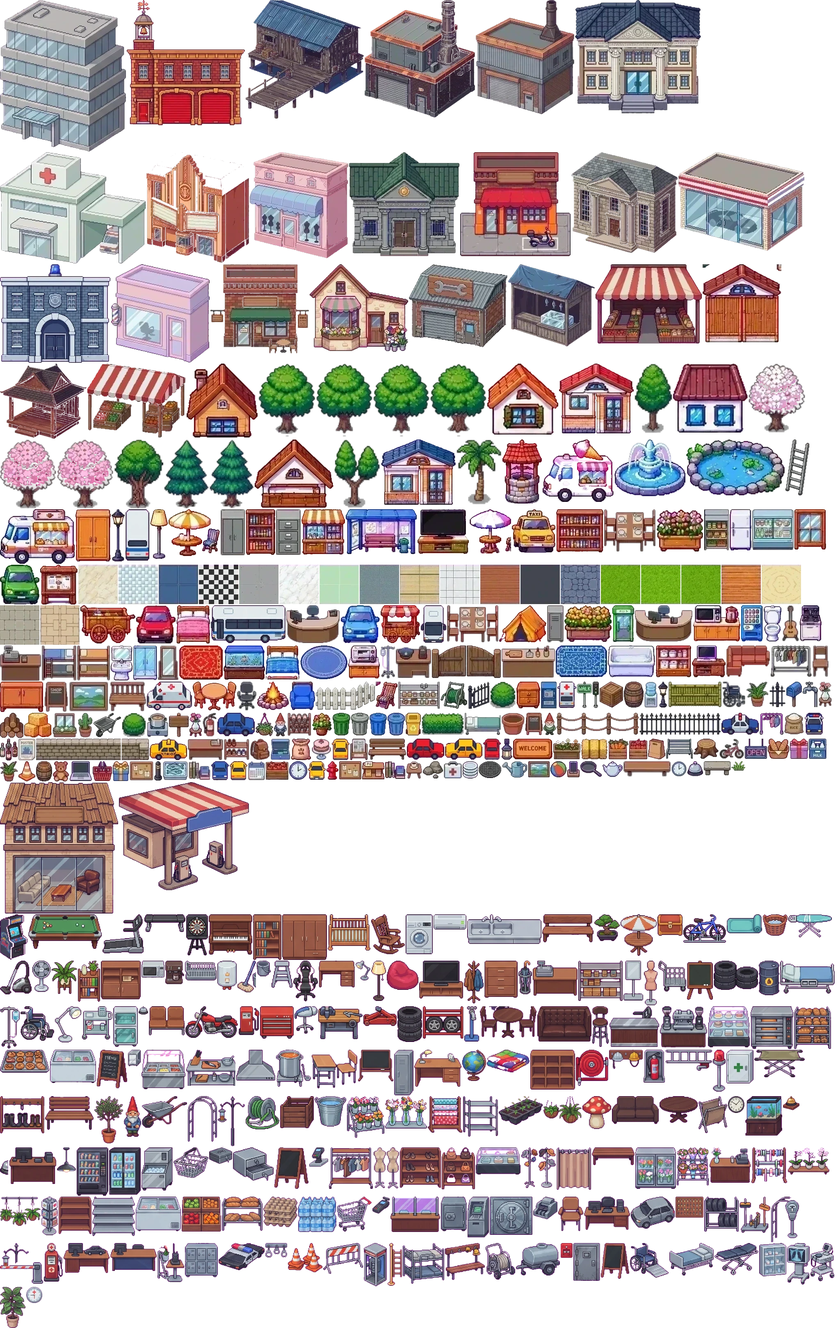
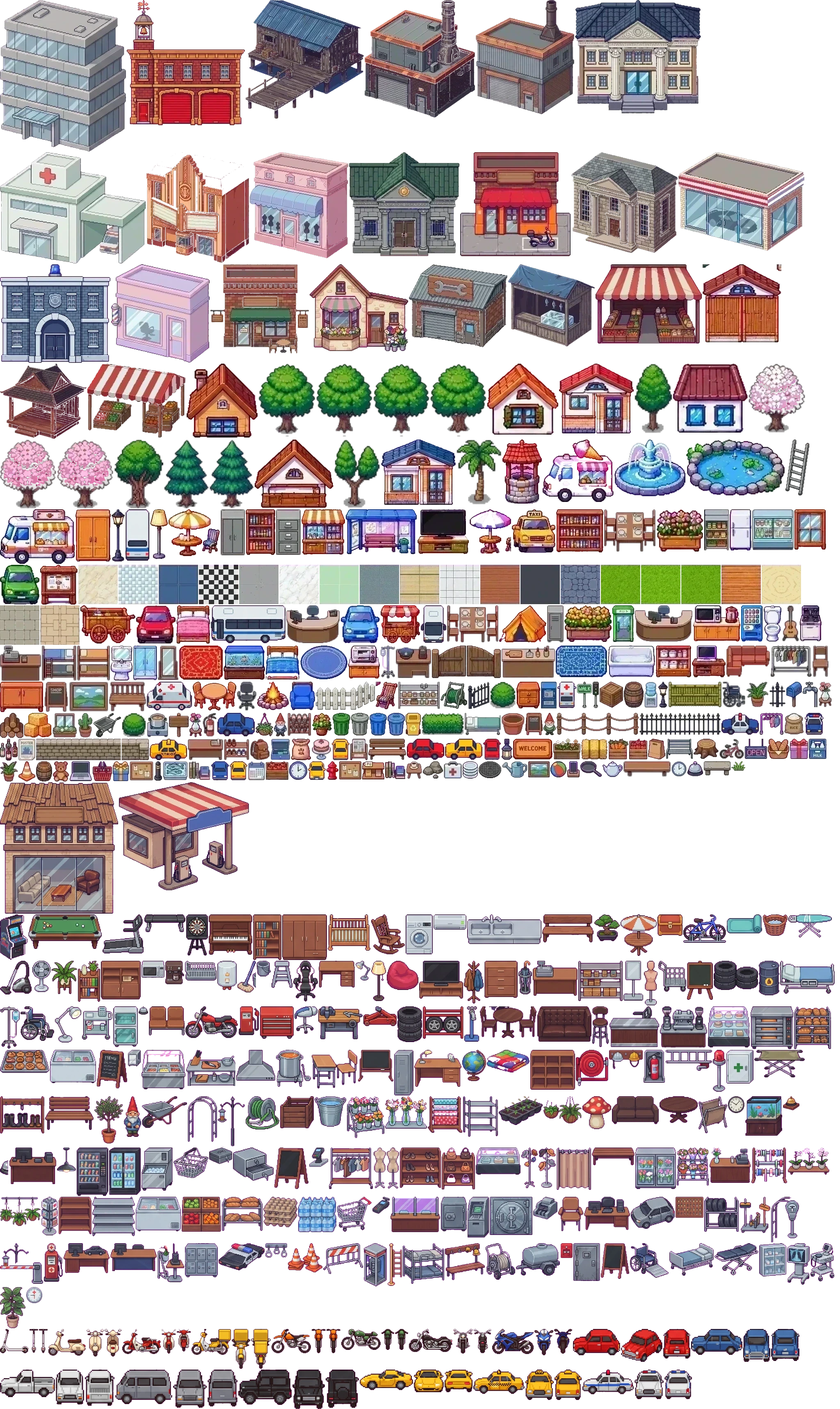
Vehicles: car showroom reopened with 8 motorbikes and 8 cars cut from the new sheets (front/back/side), ride outdoors with a button (faster, no running energy), sell back at 60%; police car for police only
Claude-Session: https://claude.ai/code/session_011vTRLcvJmqJKhBboYRSi88

diff --git a/public/game.js b/public/game.js
@@ -89,6 +89,22 @@ function drawAura(px, py, H, t, front) {
   }
   ctx.restore();
 }
+// ---- vehicles: atlas sprites w_<key>_s (side, faces left) / _f (front) / _b (back)
+const vehSpr = (key, view) => atlas?.sprites?.[`w_${key}_${view === 'side' ? 's' : view === 'front' ? 'f' : 'b'}`];
+const vehH = (key, view) => { const s = vehSpr(key, view); return s ? s[3] / atlas.tile * TS : TS; };
+function drawVeh(key, view, faceLeft, px, py) {
+  const s = vehSpr(key, view); if (!s || !atlasImg) return;
+  const w = s[2] / atlas.tile * TS, h = s[3] / atlas.tile * TS;
+  ctx.save(); ctx.translate(px, py + TS * .06); if (view === 'side' && !faceLeft) ctx.scale(-1, 1);
+  ctx.drawImage(atlasImg, s[0], s[1], s[2], s[3], Math.round(-w / 2), Math.round(-h), Math.round(w), Math.round(h)); ctx.restore();
+}
+function drawRide(p, v, px, py, k, view, dir) {
+  const faceLeft = dir === 'left';
+  if (v.kind === 'car') return drawVeh(p.veh, view, faceLeft, px, py);          // in a car you only see the car
+  const lift = p.veh === 'escoot' ? TS * .12 : TS * .32;                          // sit on the seat / stand on the deck
+  drawCharTo(ctx, p, px + (view === 'side' ? (faceLeft ? TS * .12 : -TS * .12) : 0), py - lift, k, view, 0, faceLeft);
+  drawVeh(p.veh, view, faceLeft, px, py);                                        // the bike in front hides the legs
+}
 const SEAT_LEGS = .45;
 function drawCharTo(g, p, fx, fy, k, view, step, faceLeft, seated) {
   // outfits (job clothes, the thief outfit, reward outfits) are whole sheets; only the hair colour is applied on top
@@ -171,7 +187,7 @@ function handle(m) {
         ids.add(p.id);
         let s = P.get(p.id);
         if (!s) { s = { x: p.x, y: p.y, rx: p.x, ry: p.y, ox: 0, oy: 0, f: p.f, bubble: '', bt: 0 }; P.set(p.id, s); }
-        Object.assign(s, { id: p.id, name: p.name, av: p.av, c: p.c, lv: p.lv, dz: p.dz || [], pose: p.pose, title: p.title, tr: p.tr, g: p.g, lk: p.lk, npc: p.npc, adm: p.adm, w: p.w, sad: p.sad, of: p.of || '', th: p.th, afk: p.afk, wk: p.wk, desc: p.desc, tf: p.tf });
+        Object.assign(s, { id: p.id, name: p.name, av: p.av, c: p.c, lv: p.lv, dz: p.dz || [], pose: p.pose, title: p.title, tr: p.tr, g: p.g, lk: p.lk, npc: p.npc, adm: p.adm, w: p.w, sad: p.sad, of: p.of || '', th: p.th, afk: p.afk, wk: p.wk, desc: p.desc, tf: p.tf, veh: p.veh || '' });
         if (p.id === myId && !s.init) { s.init = true; s.x = s.rx = p.x; s.y = s.ry = p.y; }
       }
       for (const id of [...P.keys()]) if (!ids.has(id)) P.delete(id);
@@ -737,7 +753,7 @@ let last = performance.now(), sendT = 0, lastSent = '', holdAfterTp = false, meM
 let homeBtnT = 0;
 function frame(t) {
   requestAnimationFrame(frame);
-  if (G && me && t - homeBtnT > 400) { homeBtnT = t; const m0 = P.get(myId), r0 = m0 && areaOf(m0.x, m0.y); $('#homeBtn').classList.toggle('hidden', !(r0 && r0.rk === 'house' && r0.house === me.house) || !!placing); if (placing && !(r0 && r0.rk === 'house')) endPlace(); }
+  if (G && me && t - homeBtnT > 400) { homeBtnT = t; const m0 = P.get(myId), r0 = m0 && areaOf(m0.x, m0.y); { const vs = (me.vehicles || []).filter(k => G.shop.vehicles[k]), rb = $('#rideBtn'), v = G.shop.vehicles[me.ride]; rb.classList.toggle('hidden', !vs.length || !!(r0 && r0.kind === 'room')); rb.classList.toggle('on', !!v); const lbl = v ? `<span>🚶</span><small>ลงรถ</small>` : `<span>${G.shop.vehicles[vs[0]]?.icon || '🛵'}</span><small>ขี่รถ</small>`; if (rb.innerHTML !== lbl) rb.innerHTML = lbl; } $('#homeBtn').classList.toggle('hidden', !(r0 && r0.rk === 'house' && r0.house === me.house) || !!placing); if (placing && !(r0 && r0.rk === 'house')) endPlace(); }
   const dt = Math.min(0.05, (t - last) / 1000); last = t;
   if (!G || !me) { ctx.setTransform(1, 0, 0, 1, 0, 0); ctx.fillStyle = '#14181d'; ctx.fillRect(0, 0, cv.width, cv.height); return; }
   const m = P.get(myId);
@@ -755,7 +771,7 @@ function frame(t) {
     if (l > 0.01) {
       if (l > 1) { dx /= l; dy /= l; }
       if (running && (!canRun() || me.run === false && performance.now() - runSetT > 1500)) setRun(false);
-      const sp = G.speed * (me.speed || 1) * (running ? G.run.mul : 1) * dt;
+      const rv = me.ride && !roomOf(m.x, m.y) && !me.pose ? G.shop.vehicles[me.ride] : null, sp = G.speed * (me.speedBase || me.speed || 1) * (rv ? rv.speed : running ? G.run.mul : 1) * dt;
       // round to what we send so client and server always agree
       const r2 = v => Math.round(v * 100) / 100;
       const nx = r2(m.x + dx * sp); if (!blockedAt(nx, m.y)) m.x = nx;
@@ -964,7 +980,9 @@ function drawPlayer(p, X, Y, t) {
   const view = dir === 'down' ? 'front' : dir === 'up' ? 'back' : 'side';
   const k = TS * 1.55 / CH_ATLAS.h, H = CH_ATLAS.h * k;
   let px = px0, py = py0;
-  ctx.fillStyle = 'rgba(0,0,0,.25)'; ctx.beginPath(); ctx.ellipse(px, py, TS * (lying ? .55 : .32), TS * .11, 0, 0, 7); ctx.fill();
+  const RV = p.veh && !lying && !sitting && G.shop?.vehicles?.[p.veh] && !roomOf(p.x, p.y) ? G.shop.vehicles[p.veh] : null;
+  ctx.fillStyle = 'rgba(0,0,0,.25)'; ctx.beginPath(); ctx.ellipse(px, py, TS * (lying ? .55 : RV ? (RV.kind === 'car' ? (view === 'side' ? 1.2 : .75) : view === 'side' ? .8 : .4) : .32), TS * .11, 0, 0, 7); ctx.fill();
+  if (RV) { drawRide(p, RV, px, py, k, view, dir); nameAndBubble(p, px, py - (RV.kind === 'car' ? vehH(p.veh, view) + TS * .15 : H * .97 + TS * (p.veh === 'escoot' ? .12 : .32)), p.id === myId, t); return; }
   const aura = p.of === 'admin' && !lying, now0 = performance.now();
   if (aura) drawAura(px, py, H, now0, false);
   ctx.save();
@@ -1571,7 +1589,20 @@ function renderPanel(p) {
       }).join('');
       return `<h2>🛠 ร้านอุปกรณ์</h2><div class="sub">${hoursTxt('toolshop')} · อัปเกรดอุปกรณ์ให้หาเงินได้มากขึ้น · อัปได้ 3 ระดับ</div><div class="list">${rows}</div>`;
     }
-    case 'dealer': return `<h2>🚧 โชว์รูมรถ</h2><div class="sub">ปิดปรับปรุงชั่วคราว · สอบ/ต่ออายุใบขับขี่ได้ที่มหาวิทยาลัย</div>`;
+    case 'dealer': {
+      const tab = p.vtab === 'car' ? 'car' : 'moto', lic = (me.licenses || []).includes('driving'), mine = me.vehicles || [];
+      const cards = Object.entries(G.shop.vehicles).filter(([, v]) => v.kind === tab && (!v.job || v.job === me.career)).sort((a, b) => a[1].price - b[1].price).map(([key, v]) => {
+        const has = mine.includes(key), on = me.ride === key, need = v.license && !lic;
+        const btn = has ? `<div class="col2">${B(on ? '✓ ใช้อยู่' : `${v.icon} ขี่`, { t: 'ride', v: key, on: 1 }, on ? 'primary' : 'good', on)}${B(`ขาย ${money(Math.round(v.price * .6))}`, { t: 'act', st, a: 'sell', v: key }, 'warn')}</div>` : B(need ? '🪪 ต้องมีใบขับขี่' : money(v.price), { t: 'act', st, a: 'buy', v: key }, need ? '' : 'good', need || me.money < v.price);
+        return `<div class="look fcard vcard ${has ? 'on' : ''}"><canvas data-spr="w_${key}_s" width="150" height="80"></canvas><small>${v.icon} ${esc(v.name)}</small><em>ความเร็ว ×${v.speed}${v.license ? '' : ' · ไม่ต้องมีใบขับขี่'}${v.job ? ' · เฉพาะตำรวจ' : ''}</em>${btn}</div>`; }).join('');
+      return `<h2>🚗 โชว์รูมรถ</h2><div class="sub">${hoursTxt('dealer')} · ขี่/ขับได้ทุกที่นอกอาคาร (เร็วกว่าวิ่ง ไม่เปลืองพลังงาน) · กดปุ่ม 🛵 มุมขวาล่างเพื่อขึ้น/ลงรถ · ขายคืนได้ 60%${lic ? '' : ' · <b>รถส่วนใหญ่ต้องมีใบขับขี่</b> สอบได้ที่มหาวิทยาลัย'}</div>
+        <div class="tabs">${B('🏍 มอเตอร์ไซค์', { fn: 'qtab', set: { vtab: 'moto' } }, tab === 'moto' ? 'primary' : '')}${B('🚗 รถยนต์', { fn: 'qtab', set: { vtab: 'car' } }, tab === 'car' ? 'primary' : '')}</div><div class="looks">${cards}</div>`;
+    }
+    case 'garage': {
+      const rows = (me.vehicles || []).filter(k => G.shop.vehicles[k]).map(k => { const v = G.shop.vehicles[k], on = me.ride === k;
+        return `<div class="look fcard vcard ${on ? 'on' : ''}"><canvas data-spr="w_${k}_s" width="150" height="80"></canvas><small>${v.icon} ${esc(v.name)}</small>${B(on ? '🚶 ลงรถ' : `${v.icon} ขี่`, { t: 'ride', v: k, on: on ? 0 : 1 }, on ? '' : 'good')}</div>`; }).join('');
+      return `<h2>🔑 รถของฉัน</h2><div class="sub">เลือกคันที่จะขี่ · ซื้อเพิ่มที่ 🚗 โชว์รูมรถ</div><div class="looks">${rows || '<div class="sub">ยังไม่มีรถ</div>'}</div>`;
+    }
     case 'bank': {
       const bk = G.shop.bank;
       return `<h2>🏦 ธนาคาร</h2>${billsBox()}<div class="sub">${hoursTxt('bank')} · ดอกเบี้ย <b>${bk.rate * 100}% ต่อวัน</b> (บนยอดไม่เกิน ${money(bk.cap)})</div>
@@ -1956,7 +1987,7 @@ function sign(text, x, y, o = {}) {
 }
 const STN = id => G.stations.find(s => s.id === id);
 let atlas = null, atlasImg = null;
-fetch('assets/atlas.json?v=f2').then(r => r.json()).then(j => { atlas = j; const im = new Image(); im.onload = () => { atlasImg = im; }; im.src = 'assets/atlas.webp?v=f2'; });
+fetch('assets/atlas.json?v=v1').then(r => r.json()).then(j => { atlas = j; const im = new Image(); im.onload = () => { atlasImg = im; }; im.src = 'assets/atlas.webp?v=v1'; });
 function spr(name, cx, by, X, Y, scale = 1) {
   const s = atlas && atlasImg && atlas.sprites[name]; if (!s) return false;
   const w = s[2] / atlas.tile * TS * scale, h = s[3] / atlas.tile * TS * scale;
@@ -2809,6 +2840,8 @@ function mgClose() { mgStop(); $('#mg').classList.add('hidden'); }
 $('#mgX').onclick = () => { FX.play('click'); mgClose(); };
 $('#mgBtn').onclick = () => { FX.play('click'); mgMenu(); };
 $('#homeBtn').onclick = () => { FX.play('click'); openPanel({ kind: 'homedeco' }); };
+$('#rideBtn').onclick = () => { FX.play('click'); const vs = (me.vehicles || []).filter(k => G.shop.vehicles[k]);
+  if (me.ride) send({ t: 'ride', v: me.ride, on: 0 }); else if (vs.length === 1) send({ t: 'ride', v: vs[0], on: 1 }); else openPanel({ kind: 'garage' }); };
 function mgMenu() {
   mgStop(); $('#mg').classList.remove('hidden');
   const study = me.desk != null && me.desk >= 0;

diff --git a/server/index.js b/server/index.js
@@ -192,7 +192,8 @@ const COMFORT_MAX = 30;   // a big catalogue: comfort stops adding up past this
 const comfort = a => houseOf(a) >= 0 ? Math.min(COMFORT_MAX, furnOf(a).reduce((s, k) => s + (D.FURNITURE[k]?.comfort || 0), 0)) : 0;
 const godSpeed = a => isAdmin(a) && a.god?.speed > 1 ? Math.min(5, a.god.speed) : 1;
 const hidden = a => isAdmin(a) && !!a.god?.invis;     // god mode: invisible to everyone else
-const speedOf = a => dzProd(a, 'speed') * godSpeed(a);           // vehicles were removed from the game
+const riding = a => a.ride && (a.vehicles || []).includes(a.ride) && !a.pose && !a.down && D.areaAt(a.x, a.y)?.kind !== 'room' ? D.VEHICLES[a.ride] : null;
+const speedOf = a => dzProd(a, 'speed') * godSpeed(a) * (riding(a)?.speed || 1);   // riding a vehicle outdoors
 const runMul = a => a.run && a.energy > D.RUN.minEnergy ? D.RUN.mul : 1;
 const moveCap = a => Math.max(2.5, SPEED * speedOf(a) * D.RUN.mul * 1.35 * 4);   // up to ~4 s of walking can arrive in one burst (mobile networks stall)
 function accrue(a) {
@@ -279,7 +280,7 @@ function worth(a) {
 // ------------------------------------------------------------------ persistence
 function hashPin(pin, salt) { return crypto.createHash('sha256').update(salt + ':' + pin).digest('hex'); }
 const SAVE_KEYS = ['v', 'login', 'name', 'salt', 'hash', 'avatar', 'money', 'energy', 'hunger', 'health', 'career', 'licenses', 'xp', 'inv', 'x', 'y', 'earned',
-  'created', 'quests', 'qStreak', 'lastLogin', 'loginStreak', 'loginDays', 'wquests', 'keep', 'achGot', 'tools', 'vehicles', 'house', 'furniture', 'hlv', 'fpos', 'bank', 'bankT', 'loan', 'dz', 'awake', 'listings',
+  'created', 'quests', 'qStreak', 'lastLogin', 'loginStreak', 'loginDays', 'wquests', 'keep', 'achGot', 'tools', 'vehicles', 'ride', 'house', 'furniture', 'hlv', 'fpos', 'bank', 'bankT', 'loan', 'dz', 'awake', 'listings',
   'phone', 'contacts', 'stats', 'ach', 'title', 'jobChanges', 'enrolled', 'classes', 'office', 'garden', 'rent', 'houseSale', 'houseRent', 'down', 'happy', 'bills', 'billMonth', 'usage', 'utilOff', 'wanted', 'crimes', 'craving', 'gender', 'look', 'wardrobe',
   'god', 'rod', 'hideJob', 'outfit', 'outfits', 'licExp', 'phoneAsk', 'school', 'pic', 'mail'];
 let nextListing = 1;
@@ -327,7 +328,7 @@ function hydrate(r) {
   if ((a.v || 3) < 4) {                           // thief and fisher stopped being jobs; vehicles were removed (refunded in full)
     if (a.career === 'thief' || a.career === 'fisher') { if (a.career === 'fisher') a.rod = 1; a.career = 'none'; }
     if ((a.xp?.fisher || 0) > 0) a.rod = Math.max(a.rod || 0, 1);
-    a.money += (a.vehicles || []).reduce((t, v) => t + (D.VEHICLES[v]?.price || 0), 0); a.vehicles = [];
+    a.money += (a.vehicles || []).reduce((t, v) => t + ({ skate: 2000, bike: 6500, scooter: 22000, car: 75000 }[v] || 0), 0); a.vehicles = [];
     if ((a.licenses || []).includes('driving')) a.licExp = { ...(a.licExp || {}), driving: now() + LICENSE_YEAR };
     a.v = 4;
   }
@@ -1140,6 +1141,22 @@ function act(a, m) {
       if (!pay(a, f.price)) return;
       a.furniture = [...a.furniture, m.item]; joy(a, 5); markMe(a); wdAt = 0;
       return toast(a, `ซื้อ ${f.icon}${f.name} ส่งไปที่บ้านเลขที่ ${a.house + 1} แล้ว · ความสบาย +${f.comfort} (รวม ${comfort(a)}) · จัดวางได้ด้วยปุ่ม 🛋 จัดบ้าน`, f.icon);
+    }
+    case 'dealer.buy': case 'dealer.sell': {   // the car showroom
+      const v = D.VEHICLES[m.v]; if (!v) return;
+      const own = (a.vehicles || []).includes(m.v);
+      if (m.a === 'sell') {
+        if (!own) return; const back = Math.round(v.price * .6);
+        a.vehicles = a.vehicles.filter(x => x !== m.v); if (a.ride === m.v) a.ride = ''; a.money += back; markMe(a); sendRoster();
+        return toast(a, `ขาย${v.name}ให้โชว์รูม ได้ ${money(back)} (60%)`, '💰');
+      }
+      if (own) return toast(a, `มี${v.name}แล้ว`, 'ℹ', false);
+      if (v.job && a.career !== v.job) return toast(a, `${v.name} ขายเฉพาะตำรวจ`, '🚓', false);
+      if (v.license && !(a.licenses || []).includes(v.license)) return toast(a, 'ต้องมีใบขับขี่ก่อน สอบได้ที่มหาวิทยาลัย 🪪', '🪪', false);
+      if (!pay(a, v.price)) return;
+      a.vehicles = [...(a.vehicles || []), m.v]; a.ride = m.v; joy(a, 15); a.mvb = moveCap(a); markMe(a); sendRoster();
+      if (v.price >= 250000) feed(`${v.icon} ${a.name} ถอย${v.name}ป้ายแดง!`);
+      return toast(a, `ได้${v.name}แล้ว! กดปุ่ม ${v.icon} ขี่/ลงรถ ได้ทุกที่นอกอาคาร`, v.icon);
     }
     case 'hstair.go': case 'hstair.build': {   // house floors: stairs up/down, and building the next floor
       const i = s.idx, o = houses[i], tn = tenants[i], master = isAdmin(a) && a.god?.doors;
@@ -1967,7 +1984,7 @@ function outfitOf(a) {
 function pubInfo(a) {
   return { id: a.id, name: a.name, av: a.avatar, c: a.career, lv: lvl(a), dz: (a.dz || []).map(d => DZ[d].icon),
     pose: a.down ? a.down.kind : a.pose, title: titleOf(a), tr: titleRar(a), pic: a.pic ? 1 : 0, w: a.wanted > now() ? 1 : 0, sad: depressed(a) ? 1 : 0, g: a.gender, lk: a.look, adm: isAdmin(a) ? 1 : 0,
-    of: outfitOf(a), th: a.thiefUntil > now() ? 1 : 0, afk: a.afk ? 1 : 0 };
+    of: outfitOf(a), th: a.thiefUntil > now() ? 1 : 0, afk: a.afk ? 1 : 0, veh: a.ride || '' };
 }
 function sendRoster() {
   const all = [...online.values()].map(a => ({ ...pubInfo(a), x: a.x, y: a.y, f: a.f, _h: hidden(a) })), npc = npcs.filter(npcVisible).map(npcInfo);
@@ -1990,7 +2007,7 @@ function meView(a) {
   return {
     t: 'me', id: a.id, name: a.name, avatar: a.avatar, x: +a.x.toFixed(2), y: +a.y.toFixed(2), money: Math.round(a.money), energy: a.energy, hunger: a.hunger, health: a.health,
     career: a.career, licenses: a.licenses, lv: lvl(a), xp: a.xp, jx: jobView(a), inv: a.inv, phone: a.phone, contacts: a.contacts || [],
-    tools: a.tools, house: a.house, furniture: a.furniture, hlv: a.hlv || 0, fpos: a.fpos || {}, comfort: comfort(a), speed: speedOf(a), rent: a.rent, houseSale: a.houseSale, houseRent: a.houseRent,
+    tools: a.tools, vehicles: a.vehicles || [], ride: a.ride || '', house: a.house, furniture: a.furniture, hlv: a.hlv || 0, fpos: a.fpos || {}, comfort: comfort(a), speed: speedOf(a), speedBase: dzProd(a, 'speed') * godSpeed(a), rent: a.rent, houseSale: a.houseSale, houseRent: a.houseRent,
     bank: Math.floor(a.bank), loan: Math.ceil(a.loan), listings: a.listings || [], dz: a.dz || [], awake: Math.floor(a.awake || 0), bed: a.bed ?? -1, chair: a.chair,
     pose: a.pose, down: a.down, cast: a.cast ? { state: a.cast.state, zone: a.cast.state === 'bite' ? a.cast.zone : null, speed: a.cast.speed } : null, garden: a.garden, enrolled: a.enrolled, classes: a.classes || 0,
     office: a.office ? { strikes: a.office.strikes, day: a.office.day, late: a.office.late, hours: +(a.office.hours || 0).toFixed(2), closed: a.office.closed } : null,
@@ -2083,7 +2100,7 @@ function login(ws, m) {
     items: D.ITEMS, cats: D.CATEGORIES, crops: D.CROPS, recipes: D.RECIPES, careers: D.CAREERS, licenses: D.LICENSES,
     titles: D.OFFICE_TITLES, wages: D.OFFICE_WAGE, speed: SPEED, clock: D.CLOCK, run: D.RUN, build: BUILD, fishing: D.FISHING, outfitDefs: D.OUTFITS, doctor: D.DOCTOR, adminName: ADMIN_NAME, adminTitle: ADMIN_TITLE, radius: D.RADIUS, chat: chatLog.slice(-25), isNew, dayMs: D.DAY_MS, hours: D.HOURS, shift: D.SHIFT, months: D.MONTHS, monthDays: D.MONTH_DAYS,
     props: D.PROPS, trees: D.TREES, lotsDef: D.LOTS, garden: D.GARDEN, diseases: D.DISEASES, treatments: D.TREATMENTS, ach: D.ACHIEVEMENTS, fish: D.FISH,
-    shop: { tools: D.TOOLS, toolPrices: D.TOOL_PRICES, housePrices: D.HOUSE_PRICES, houseRent: D.HOUSE_RENT, furniture: D.FURNITURE, floorPrice: D.FLOOR_PRICE, floors: D.HOUSE_FLOORS, bank: D.BANK },
+    shop: { vehicles: D.VEHICLES, tools: D.TOOLS, toolPrices: D.TOOL_PRICES, housePrices: D.HOUSE_PRICES, houseRent: D.HOUSE_RENT, furniture: D.FURNITURE, floorPrice: D.FLOOR_PRICE, floors: D.HOUSE_FLOORS, bank: D.BANK },
   });
   send(a, meView(a)); send(a, worldView());
   send(a, { t: 'mypic', pic: a.pic || '' }); send(a, { t: 'mail', list: a.mail || [] });
@@ -2178,7 +2195,7 @@ function move(a, m) {
   a.mvb -= d;
   if (d > 0.04 && (a.pose || a.chair >= 0 || a.bed >= 0 || a.desk >= 0)) standUp(a);
   if (d > 0.04 && a.afk) { a.afk = false; sendRoster(); }
-  if (a.run && !godLock(a)) {               // running burns energy; too tired = back to walking
+  if (a.run && !godLock(a) && !riding(a)) {               // running burns energy; too tired = back to walking
     a.energy = Math.max(0, a.energy - d * D.RUN.energyPerTile); a.runT = t;
     if (a.energy <= D.RUN.minEnergy) { a.run = false; markMe(a); toast(a, 'เหนื่อยเกินไป วิ่งไม่ไหวแล้ว พักหรือกินอะไรก่อน', '🥵', false); }
   }
@@ -2281,6 +2298,16 @@ function onMessage(ws, raw) {
     case 'paybills': return payBills(a);
     case 'donate': return donate(a, m);
     case 'steal': return steal(a, m);
+    case 'ride': {                           // get on / off one of your vehicles
+      const k = String(m.v || '');
+      if (!k || a.ride === k && !m.on) { a.ride = ''; }
+      else {
+        const v = D.VEHICLES[k]; if (!v || !(a.vehicles || []).includes(k)) return;
+        if (v.license && !hasLic(a, v.license)) return toast(a, licExpired(a, 'driving') ? 'ใบขับขี่หมดอายุ! ต่ออายุที่มหาวิทยาลัยก่อนขับ' : 'ต้องมีใบขับขี่ก่อน', '🪪', false);
+        a.ride = k;
+      }
+      a.mvb = moveCap(a); markMe(a); return sendRoster();
+    }
     case 'wear': return wear(a, m);
     case 'hplace': {                        // arrange your own furniture: put a piece on a floor of your house, or put it away
       const i = a.house; if (i < 0 || houses[i] !== a) return toast(a, 'ต้องมีบ้านของตัวเองก่อน', '🏡', false);

diff --git a/server/data.js b/server/data.js
@@ -87,7 +87,7 @@ function pathDown(b, toY) { const cx = Math.floor(b.x + b.w / 2); for (let y = b
   // ---- districts: shopping street by the square (west main road), civic street (north), services lane (south-west),
   // health & business (east main road), the waterfront by the lake. Declaration order is kept: rooms are laid out in this order.
   B('toolshop', 'b_toolshop', 28, 45, { label: 'ร้านอุปกรณ์', icon: '🛠', st: 'toolshop' });
-  B('dealer', 'b_showroom', 35, 45, { label: 'โชว์รูมรถ', icon: '🚧', st: 'dealer', renov: true });
+  B('dealer', 'b_showroom', 35, 45, { label: 'โชว์รูมรถ', icon: '🚗', st: 'dealer' });
   B('school', 'b_school2', 34, 13, { label: 'มหาวิทยาลัย', icon: '🎓', st: 'school' });
   B('bank', 'b_bank2', 43, 13, { label: 'ธนาคาร', icon: '🏦', st: 'bank' });
   // east main road, north side
@@ -308,7 +308,7 @@ const LAYOUT = {
   warehouse: [['x_storage', 2.4, 2.7], ['x_mshelf2', 4.6, 2.7], ['f_cabinet', 7, 2.3], ['x_storage', 9.6, 2.7], ['x_water', 11.9, 2.6], ['x_crate', 2.0, 5.6], ['crate', 3.4, 5.6], ['x_fruit', 11.4, 5.6], ['x_eggs', 2.2, 8.7], ['x_cart2', 4.4, 8.7], ['barrel', 9.6, 8.6], ['x_drum', 10.6, 8.7], ['i_rice_sack', 11.6, 8.6, false], ['x_tires2', 12.5, 8.7]],
   fashion: [['x_shoes', 2.4, 2.7], ['x_bags', 4.6, 2.7], ['x_cashdesk', 7, 2.5], ['x_mirror', 9.4, 2.6], ['x_curtain', 11.6, 2.7], ['x_clothes', 3, 5.8], ['x_clothes', 11, 5.8], ['f_rug_round', 7, 6.6], ['x_mannequin2', 5.0, 6.6], ['x_mannequin3', 9.0, 6.6], ['x_hats', 1.6, 8.8], ['x_jewelcase', 3.6, 8.7], ['x_hats2', 12.4, 8.8], ['x_fabric', 10.6, 8.8], ['i_poster', 5, 1.05, false], ['x_wclock', 9.4, 0.95, false], ['x_pos', 7.6, 1.75, false]],
   rider: [['f_window', 10.5, 1.1], ['x_pcdesk2', 7, 2.5], ['x_lockers', 2.4, 2.6], ['x_water', 4.5, 2.6], ['f_coffee', 10.4, 2.6], ['x_vending', 12.2, 2.8], ['x_helmets', 4.4, 1.0, false], ['x_moto', 3.2, 6.2], ['f_rug_round', 7, 6.4], ['x_tirerack2', 11.6, 6.0], ['f_bench_back', 9.4, 8.95, false], ['f_plant', 1.6, 8.7], ['i_bike', 4, 8.6, false], ['x_airpump', 12.4, 8.8], ['x_wclock', 7, 0.95, false]],
-  dealer: [['x_cardesk', 7, 2.4], ['car_red', 3, 4.8], ['car_blue', 11, 4.8], ['car_green', 3, 8.3], ['x_plant', 1.5, 2.7], ['x_keys', 9.6, 1.1, false], ['x_tirerack2', 12.0, 2.7], ['x_tools', 11.4, 8.7], ['x_aboard2', 9.0, 8.8, false], ['x_wclock', 4.6, 1.0, false]],
+  dealer: [['x_cardesk', 7, 2.4], ['w_sports_s', 3.2, 5.6], ['w_suv_s', 10.8, 5.6], ['w_cruiser_s', 2.6, 8.7], ['w_sport_s', 11.4, 8.7], ['x_plant', 1.5, 2.7], ['x_keys', 9.6, 1.1, false], ['x_tirerack2', 12.0, 2.7], ['x_tools', 11.4, 8.7], ['x_aboard2', 9.0, 8.8, false], ['x_wclock', 4.6, 1.0, false]],
   toolshop: [['x_toolbox', 2.2, 2.6], ['x_mshelf', 4.3, 2.7], ['x_cashdesk', 7, 2.5], ['x_workbench', 9.6, 2.6], ['f_shelf_c', 11.9, 2.8], ['x_storage', 2.4, 6.4], ['x_seeds', 4.8, 6.0, false], ['x_barrow', 10.8, 6.4], ['x_bucket2', 1.8, 8.7], ['x_jack', 4.0, 8.6], ['x_ghose', 10.4, 8.7], ['x_ladder2', 12.5, 8.7], ['i_lantern', 5, 1.15, false], ['i_clock', 9.4, 1.0, false]],
   restaurant: [['x_plant', 1.6, 2.8], ['x_coffeebar', 3.9, 2.5], ['x_counter', 7, 2.4], ['x_cakecase', 9.9, 2.5], ['x_drinkfridge', 12.1, 2.7], ['x_wclock', 5.4, 0.95, false], ['i_hanging', 12.6, 1.25, false], ['x_cafeset', 3.4, 5.7], ['x_cafeset', 10.6, 5.7], ['x_cafeset', 3.4, 8.6], ['x_cafeset', 10.6, 8.6], ['x_menu', 5.4, 9.15, false], ['x_bell', 7.9, 1.75, false]],
   kitchen: [['x_hood', 4.6, 1.45, false], ['x_oven', 2.4, 2.6], ['x_souppot', 4.6, 2.6], ['x_prep', 7.2, 2.5], ['x_sink', 10.3, 2.5], ['x_breadrack', 2.0, 6.4], ['f_bench', 10.5, 6.6], ['x_tray', 10.5, 5.75, false], ['x_freezer', 2.6, 8.7], ['i_rice_sack', 4.4, 8.6], ['x_ice', 10.0, 8.8], ['f_fridge', 12.3, 8.7], ['x_ext', 12.6, 5.0], ['i_clock', 7.4, 1.0, false], ['x_dishrack', 12.0, 1.95, false]],
@@ -577,11 +577,23 @@ const EVENTS = [
 ];
 
 // ================================================================= things to spend money on
-const VEHICLES = {
-  skate:  { name: 'สเก็ตบอร์ด', icon: '🛹', price: 2000,  speed: 1.15 },
-  bike:   { name: 'จักรยาน', icon: '🚲', price: 6500,  speed: 1.3 },
-  scooter:{ name: 'มอเตอร์ไซค์', icon: '🛵', price: 22000, speed: 1.5, license: 'driving' },
-  car:    { name: 'รถยนต์', icon: '🚗', price: 75000, speed: 1.75, license: 'driving' },
+const VEHICLES = {   // bought at the car showroom; ride outdoors (🛵 button) — faster than walking, no running needed
+  escoot:  { name: 'สกู๊ตเตอร์ไฟฟ้า', icon: '🛴', price: 9000, speed: 1.25, kind: 'moto' },
+  cub:     { name: 'มอเตอร์ไซค์คับ', icon: '🛵', price: 28000, speed: 1.5, kind: 'moto', license: 'driving' },
+  vespa:   { name: 'เวสป้าวินเทจ', icon: '🛵', price: 55000, speed: 1.55, kind: 'moto', license: 'driving' },
+  delivery:{ name: 'มอไซค์ส่งอาหาร', icon: '🛵', price: 35000, speed: 1.55, kind: 'moto', license: 'driving', rider: 1 },
+  dirt:    { name: 'วิบากออฟโรด', icon: '🏍', price: 85000, speed: 1.65, kind: 'moto', license: 'driving' },
+  cafe:    { name: 'คาเฟ่เรเซอร์', icon: '🏍', price: 120000, speed: 1.7, kind: 'moto', license: 'driving' },
+  cruiser: { name: 'ครุยเซอร์ฮาร์เลย์', icon: '🏍', price: 280000, speed: 1.75, kind: 'moto', license: 'driving' },
+  sport:   { name: 'บิ๊กไบค์สปอร์ต', icon: '🏍', price: 450000, speed: 1.9, kind: 'moto', license: 'driving' },
+  mini:    { name: 'มินิคูเปอร์', icon: '🚗', price: 180000, speed: 1.7, kind: 'car', license: 'driving' },
+  sedan:   { name: 'รถเก๋งซีดาน', icon: '🚘', price: 260000, speed: 1.75, kind: 'car', license: 'driving' },
+  taxi:    { name: 'แท็กซี่', icon: '🚕', price: 300000, speed: 1.75, kind: 'car', license: 'driving' },
+  pickup:  { name: 'กระบะ', icon: '🛻', price: 350000, speed: 1.75, kind: 'car', license: 'driving' },
+  van:     { name: 'รถตู้', icon: '🚐', price: 420000, speed: 1.7, kind: 'car', license: 'driving' },
+  suv:     { name: 'SUV ออฟโรด', icon: '🚙', price: 750000, speed: 1.85, kind: 'car', license: 'driving' },
+  sports:  { name: 'ซูเปอร์คาร์เปิดประทุน', icon: '🏎', price: 1500000, speed: 2.1, kind: 'car', license: 'driving' },
+  police:  { name: 'รถสายตรวจ', icon: '🚓', price: 150000, speed: 1.9, kind: 'car', license: 'driving', job: 'police' },
 };
 const TOOL_PRICES = [4000, 15000, 50000];
 const TOOLS = {

diff --git a/public/index.html b/public/index.html
@@ -82,6 +82,7 @@
     <button id="restBtn" class="round sm" title="นั่งพักหลับตา (R)"><span>😌</span><small>พัก</small></button>
     <button id="emoBtn" class="round sm" title="อิโมจิบนหัว"><span>😀</span><small>อิโมจิ</small></button>
     <button id="mgBtn" class="round sm hidden" title="มินิเกมฆ่าเวลาตอนนั่งทำงาน"><span>🎮</span><small>มินิเกม</small></button>
+    <button id="rideBtn" class="round sm hidden" title="ขึ้น/ลงรถ"><span>🛵</span><small>ขี่รถ</small></button>
     <button id="homeBtn" class="round sm hidden" title="จัดวางเฟอร์นิเจอร์ในบ้าน"><span>🛋</span><small>จัดบ้าน</small></button>
     <button id="begBtn" class="round sm hidden" title="นั่งขอทานตรงนี้"><span>🥣</span><small>ขอทาน</small></button>
   </div>

diff --git a/public/style.css b/public/style.css
@@ -698,3 +698,8 @@ body.hasEvent #topBar{top:146px!important}
 .ftabs{flex-wrap:nowrap;overflow-x:auto;scrollbar-width:none}.ftabs::-webkit-scrollbar{display:none}.ftabs button{flex:none;white-space:nowrap;font-size:12px;padding:5px 10px}
 .look.fcard canvas{width:96px;height:80px;image-rendering:pixelated}
 .look.fcard em{display:block;font-style:normal;font-size:10.5px;color:var(--mut);margin:-2px 0 4px}
+
+/* vehicles */
+#rideBtn{right:104px;bottom:136px;width:50px;height:50px}
+#rideBtn.on{background:linear-gradient(#5c8fb8,#2f5878)}
+.look.vcard canvas{width:100%;max-width:150px;height:auto;aspect-ratio:15/8}

diff --git a/tools/add_vehicles.py b/tools/add_vehicles.py
@@ -1,0 +1,62 @@
+"""Cut the player vehicles (front / back / side views) from tools/sheets/pixel_moto.jpg and pixel_cars.jpg and append
+them to the atlas as w_<key>_f, w_<key>_b, w_<key>_s (side view faces LEFT, the game mirrors it for right).
+
+    python3 tools/add_vehicles.py
+"""
+import json, os
+import numpy as np
+from PIL import Image
+from scipy import ndimage
+
+ROOT = os.path.join(os.path.dirname(__file__), '..')
+IMG = os.path.join(ROOT, 'public', 'assets', 'atlas.webp')
+JS = os.path.join(ROOT, 'public', 'assets', 'atlas.json')
+BOX = json.load(open(os.path.join(ROOT, 'tools', 'veh_boxes.json')))   # bounding boxes found once by connected components
+TILE = 48
+# key: (sheet, front, back, side, side faces right?, side length in tiles)
+VEH = {
+    'escoot':   ('moto', 41, 45, 40, False, 1.45), 'vespa': ('moto', 1, 2, 4, True, 1.9), 'cub': ('moto', 8, 9, 11, True, 1.95),
+    'delivery': ('moto', 46, 47, 49, False, 2.0), 'dirt': ('moto', 29, 29, 28, False, 2.0), 'cafe': ('moto', 35, 36, 37, True, 2.0),
+    'cruiser':  ('moto', 22, 23, 25, True, 2.2), 'sport': ('moto', 15, 17, 18, True, 2.1),
+    'mini': ('cars', 2, 3, 4, True, 2.4), 'sedan': ('cars', 8, 9, 10, True, 2.6), 'pickup': ('cars', 13, 14, 16, False, 2.8),
+    'van': ('cars', 28, 29, 30, True, 2.9), 'suv': ('cars', 18, 19, 20, True, 2.7), 'sports': ('cars', 23, 24, 25, True, 2.7),
+    'taxi': ('cars', 34, 35, 36, True, 2.6), 'police': ('cars', 40, 41, 42, True, 2.6),
+}
+
+def cut(sheet, box):
+    y0, x0, y1, x1 = box
+    a = np.asarray(sheet.crop((x0 - 2, y0 - 2, x1 + 2, y1 + 2)).convert('RGB')).astype(int)
+    r, g, b = a[..., 0], a[..., 1], a[..., 2]
+    bg = (g < np.minimum(r, b) * 0.6) & (np.abs(r - b) < 90) & (np.minimum(r, b) > 110)
+    grid = (r > 80) & (b > 80) & (g < 70) & (np.abs(r - b) < 70)
+    fg = ~bg & ~grid
+    lab, n = ndimage.label(ndimage.binary_closing(fg, iterations=2))
+    if n > 1:
+        sizes = ndimage.sum(np.ones_like(lab), lab, range(1, n + 1))
+        fg = np.isin(lab, [i + 1 for i, s in enumerate(sizes) if s > sizes.max() * .05]) & fg
+    # pink wheel hubs: the sheet's magenta shows through the rims, paint it grey
+    hub = fg & (g < np.minimum(r, b) * 0.75) & (np.minimum(r, b) > 90)
+    a[hub] = [150, 150, 160]
+    im = Image.fromarray(np.dstack([a, np.where(fg, 255, 0)]).astype(np.uint8)); return im.crop(im.getbbox())
+
+def main():
+    atlas = Image.open(IMG).convert('RGBA'); data = json.load(open(JS))
+    x, y, rowh = 0, data['size'][1] + 2, 0; placed = []
+    sheets = {k: Image.open(os.path.join(ROOT, 'tools', 'sheets', f'pixel_{k}.jpg')).convert('RGB') for k in ('moto', 'cars')}
+    for key, (sh, f, b, s, flip, tiles) in VEH.items():
+        side = cut(sheets[sh], BOX[sh][s]); k = tiles * TILE / side.width
+        if flip: side = side.transpose(Image.FLIP_LEFT_RIGHT)
+        for suf, im in (('s', side), ('f', cut(sheets[sh], BOX[sh][f])), ('b', cut(sheets[sh], BOX[sh][b]))):
+            name = f'w_{key}_{suf}'
+            if name in data['sprites']: continue
+            im = im.resize((max(4, round(im.width * k)), max(4, round(im.height * k))), Image.LANCZOS)
+            if x + im.width > atlas.width: x, y, rowh = 0, y + rowh + 2, 0
+            placed.append((name, x, y, im)); x += im.width + 2; rowh = max(rowh, im.height)
+    out = Image.new('RGBA', (atlas.width, y + rowh)); out.paste(atlas, (0, 0))
+    for name, px, py, im in placed: out.paste(im, (px, py)); data['sprites'][name] = [px, py, im.width, im.height]
+    data['size'] = [atlas.width, y + rowh]
+    out.save(IMG, 'WEBP', quality=92, method=6); json.dump(data, open(JS, 'w'), separators=(',', ':'))
+    print('added', len(placed), 'atlas', out.size)
+
+if __name__ == '__main__':
+    main()
